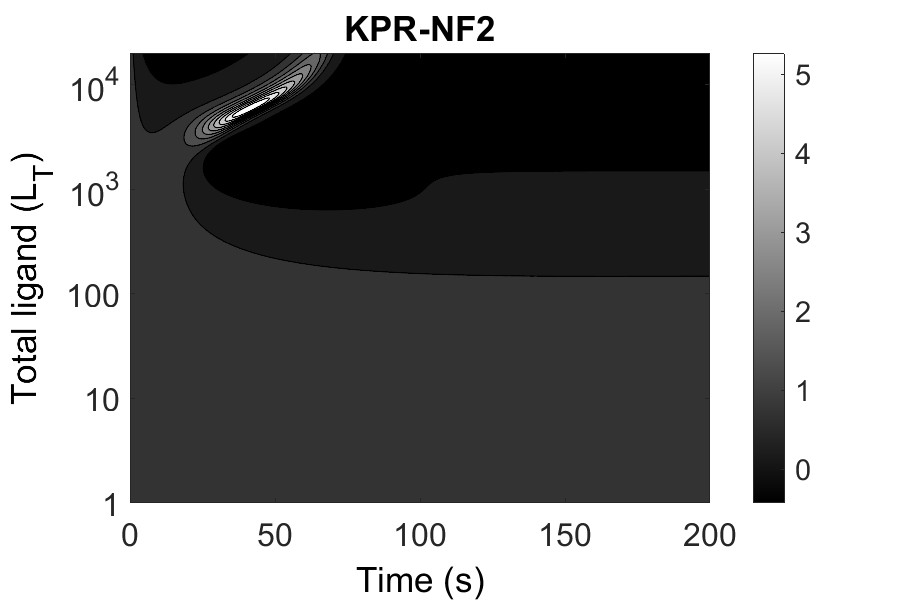
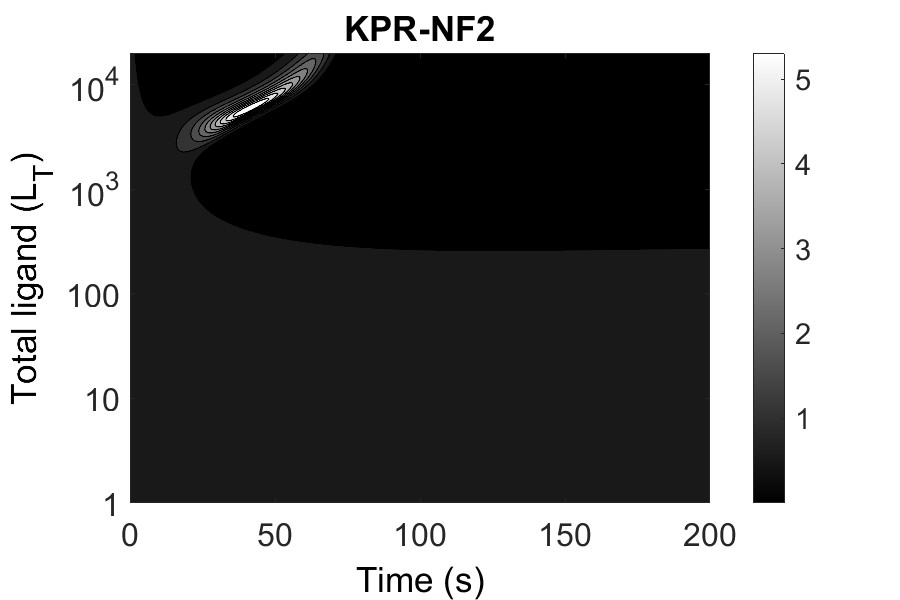
a

diff --git a/Leveraging mathematical models P2/Sensitivity/Sensitivity Analysis/SerialTriggeringSensitivity_LT.m b/Leveraging mathematical models P2/Sensitivity/Sensitivity Analysis/SerialTriggeringSensitivity_LT.m
@@ -21,6 +21,7 @@ LTvect = logspace(0, log10(2e4), 1000);
 % Resultados con el número de filas de koff y en cada columna el instante
 % temporal
 results_matrix = zeros(length(LTvect), length(solution{3}(:, 1))); 
+h = waitbar(0,'Calculando...');
 for i = 1:length(LTvect)
 
     p = complex([0.0055, 0.61,  0.0011, 0.001, 5, 0.094, LTvect(i)], 0);
@@ -34,8 +35,11 @@ for i = 1:length(LTvect)
 
     % En la fila que define un valor de koff
     results_matrix(i, :) = newSol;
+    waitbar(i/length(LTvect), h);
 end
 
+close(h);
+save('KPR_LSIFF_LT.mat','tspan','LTvect','results_matrix');
 
 results_matrix1 = log10(abs(results_matrix));
 LTvect1 = log10(LTvect);
@@ -49,7 +53,12 @@ title ('ST', 'FontSize', 18, 'FontWeight', 'bold', 'Color', 'k');
 ticks_real = [1, 10, 100, 1e3, 1e4];
 set(gca, 'YTick', log10(ticks_real));
 set(gca, 'YTickLabel', {'1', '10', '100', '10^{3}', '10^{4}'});
+set(gca, 'YDir', 'normal', 'FontSize', 16);
 
+fig = figure('Visible','off');
+[C,h] = contourf(tspan, LTvect1, results_matrix, 10,'LineColor','k');
+levels = h.LevelList;
+fprintf('levels = [%s]\n', num2str(levels, '%.4g, '));
 
 %% FUNCIONES
 function solution = sensitivity(x0, p, d, tspan)

diff --git a/Leveraging mathematical models P2/Sensitivity/Sensitivity Analysis/OccupSensitivity_LT.m b/Leveraging mathematical models P2/Sensitivity/Sensitivity Analysis/OccupSensitivity_LT.m
@@ -17,6 +17,7 @@ LTvect = logspace(0, log10(2e4), 2000);
 
 % Resultados con el número de filas de koff y en cada columna el instante
 % temporal
+h = waitbar(0,'Calculando...');
 results_matrix = zeros(length(LTvect), length(solution{1}(:, 1))); 
 for i = 1:length(LTvect)
 
@@ -31,7 +32,12 @@ for i = 1:length(LTvect)
 
     % En la fila que define un valor de koff
     results_matrix(i, :) = newSol;
+    waitbar(i/length(LTvect), h);
 end
+
+close(h);
+
+save('Occ_LT.mat','tspan','LTvect','results_matrix');
 
 results_matrix1 = log10(results_matrix);
 LTvect1 = log10(LTvect);
@@ -46,6 +52,11 @@ ticks_real = [1, 10, 100, 1e3, 1e4];
 set(gca, 'YTick', log10(ticks_real));
 set(gca, 'YTickLabel', {'1', '10', '100', '10^{3}', '10^{4}'});
 set(gca, 'YDir', 'normal', 'FontSize', 16);
+
+fig = figure('Visible','off');
+[C,h] = contourf(tspan, LTvect1, results_matrix, 10,'LineColor','k');
+levels = h.LevelList;
+fprintf('levels = [%s]\n', num2str(levels, '%.4g, '));
 
 
 %% FUNCIONES

diff --git a/Leveraging mathematical models P2/Sensitivity/Sensitivity Analysis/KPZUSensitivity_LT.m b/Leveraging mathematical models P2/Sensitivity/Sensitivity Analysis/KPZUSensitivity_LT.m
@@ -20,6 +20,7 @@ LTvect = logspace(0, log10(2e4), 1000);
 
 % Resultados con el número de filas de koff y en cada columna el instante
 % temporal
+h = waitbar(0,'Calculando...');
 results_matrix = zeros(length(LTvect), length(solution{4}(:, 1))); 
 for i = 1:length(LTvect)
 
@@ -34,8 +35,12 @@ for i = 1:length(LTvect)
 
     % En la fila que define un valor de koff
     results_matrix(i, :) = newSol;
+    waitbar(i/length(LTvect), h);
 end
 
+close(h);
+
+save('KPZU_LT.mat','tspan','LTvect','results_matrix');
 
 results_matrix1 = log10(abs(results_matrix));
 LTvect1 = log10(LTvect);
@@ -49,6 +54,8 @@ title ('KPZU', 'FontSize', 18, 'FontWeight', 'bold', 'Color', 'k');
 ticks_real = [1, 10, 100, 1e3, 1e4];
 set(gca, 'YTick', log10(ticks_real));
 set(gca, 'YTickLabel', {'1', '10', '100', '10^{3}', '10^{4}'});
+set(gca, 'YDir', 'normal', 'FontSize', 16);
+
 
 
 %% FUNCIONES

diff --git a/Leveraging mathematical models P2/Sensitivity/Sensitivity Analysis/KPR_NF2_Sensitivity_LT.m b/Leveraging mathematical models P2/Sensitivity/Sensitivity Analysis/KPR_NF2_Sensitivity_LT.m
@@ -39,6 +39,7 @@ close(h);
 
 results_matrix1 = log10(abs(results_matrix));
 LTvect1 = log10(LTvect);
+results_matrix = abs(results_matrix);
 
 save('NegII_LT.mat','tspan','LTvect','results_matrix');
 
@@ -52,6 +53,11 @@ ticks_real = [1, 10, 100, 1e3, 1e4];
 set(gca, 'YTick', log10(ticks_real));
 set(gca, 'YTickLabel', {'1', '10', '100', '10^{3}', '10^{4}'});
 set(gca, 'YDir', 'normal', 'FontSize', 16);
+
+fig = figure('Visible','off');
+[C,h] = contourf(tspan, LTvect1, results_matrix, 10,'LineColor','k');
+levels = h.LevelList;
+fprintf('levels = [%s]\n', num2str(levels, '%.4g, '));
 
 
 %% FUNCIONES

diff --git a/Leveraging mathematical models P2/Sensitivity/Sensitivity Analysis/KPCSensitivity_LT.m b/Leveraging mathematical models P2/Sensitivity/Sensitivity Analysis/KPCSensitivity_LT.m
@@ -48,6 +48,11 @@ set(gca, 'YTick', log10(ticks_real));
 set(gca, 'YTickLabel', {'1', '10', '100', '10^{3}', '10^{4}'});
 set(gca, 'YDir', 'normal', 'FontSize', 16);
 
+fig = figure('Visible','off');
+[C,h] = contourf(tspan, LTvect1, results_matrix, 10,'LineColor','k');
+levels = h.LevelList;
+fprintf('levels = [%s]\n', num2str(levels, '%.4g, '));
+
 
 %% SOLUCION
 
